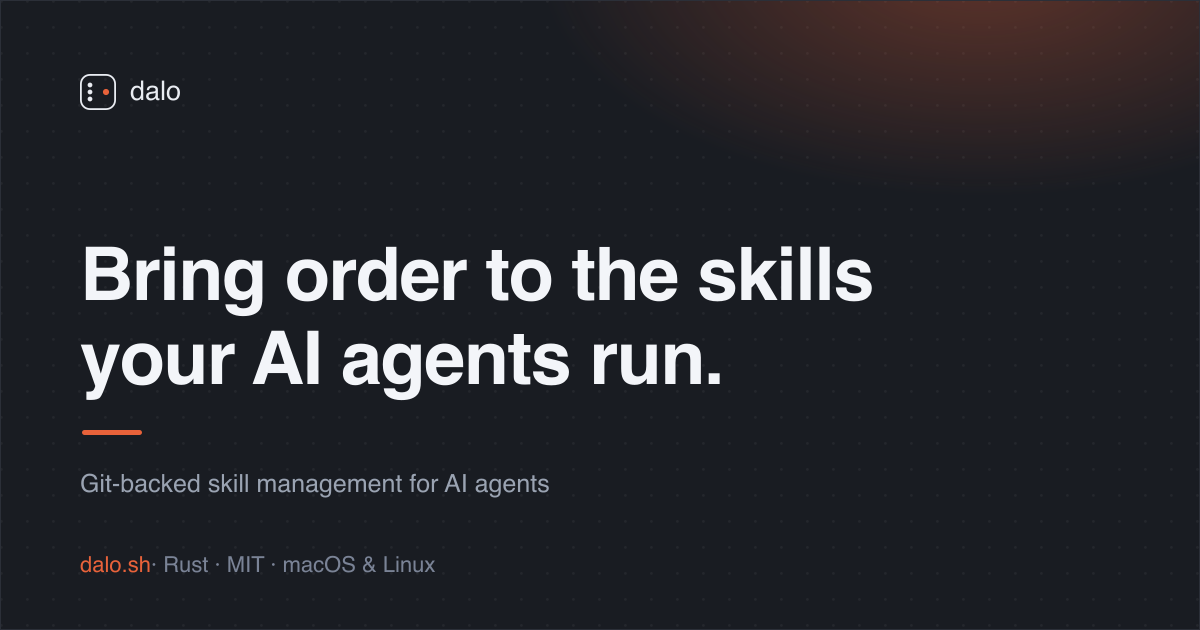
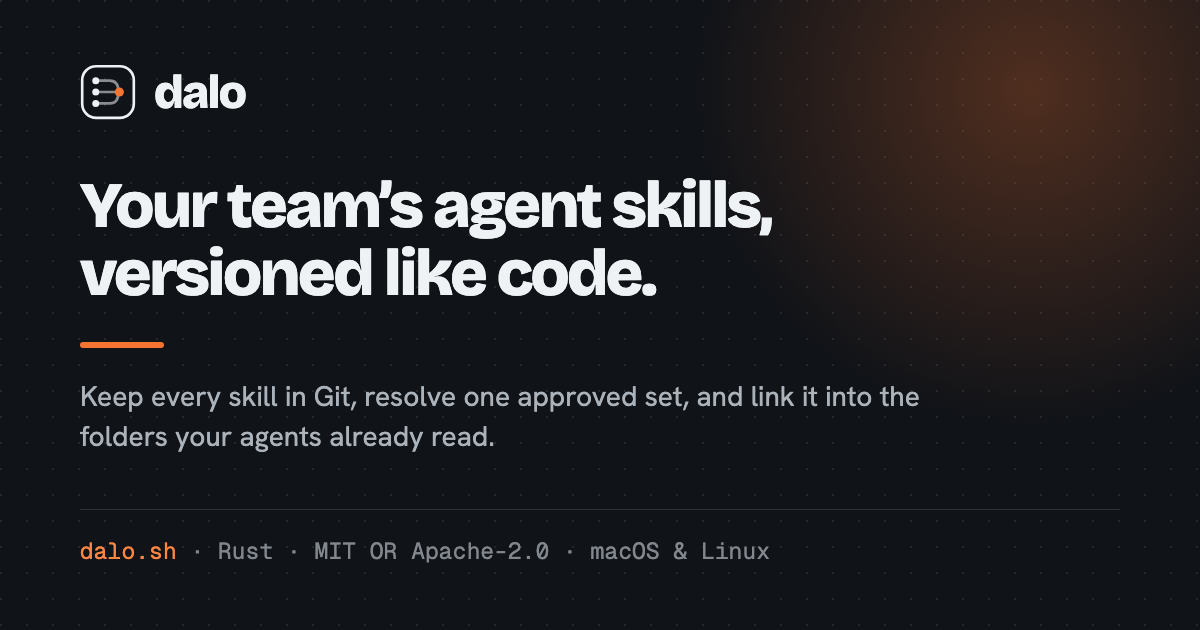
docs(site): render the 1.0 social card from a Remotion still
The Open Graph image still carried the pre-1.0 tagline and a system sans
that the site never uses. It is now generated from `video/src/OgImage.tsx`,
a 1200x630 Remotion still that reuses the landing page's self-hosted fonts
and the `data-scope="dark"` colour tokens, so the card and the hero it
links to say the same thing in the same typeface.

`pnpm run render:og` in `video/` regenerates it. The landing page, every
rendered documentation page, and the specification pages already share this
one file, so the refresh covers the whole site.

diff --git a/video/src/OgImage.tsx b/video/src/OgImage.tsx
@@ -1,0 +1,162 @@
+import {continueRender, delayRender} from 'remotion';
+import {useEffect, useState} from 'react';
+
+import bricolage800 from '../../site/assets/fonts/bricolage-800.woff2';
+import geistMono400 from '../../site/assets/fonts/geistmono-400.woff2';
+import hanken400 from '../../site/assets/fonts/hanken-400.woff2';
+
+// The tokens below are the `[data-scope="dark"]` values from site/styles.css.
+// The social card is the first thing a reader sees, so it uses the same fonts,
+// colours, and wording as the hero it links to.
+const colors = {
+  background: 'oklch(0.185 0.012 260)',
+  ink: 'oklch(0.96 0.004 240)',
+  inkSoft: 'oklch(0.76 0.012 250)',
+  inkFaint: 'oklch(0.62 0.012 255)',
+  accent: 'oklch(0.70 0.175 45)',
+  accentText: 'oklch(0.74 0.165 48)',
+  line: 'oklch(0.31 0.014 260)',
+};
+
+const fontFaces = `
+@font-face {
+  font-family: "Bricolage Grotesque";
+  font-style: normal;
+  font-weight: 800;
+  src: url("${bricolage800}") format("woff2");
+}
+@font-face {
+  font-family: "Hanken Grotesk";
+  font-style: normal;
+  font-weight: 400;
+  src: url("${hanken400}") format("woff2");
+}
+@font-face {
+  font-family: "Geist Mono";
+  font-style: normal;
+  font-weight: 400;
+  src: url("${geistMono400}") format("woff2");
+}
+`;
+
+const DaloMark = () => (
+  <svg viewBox="0 0 32 32" width="56" height="56" aria-hidden="true">
+    <rect x="1.25" y="1.25" width="29.5" height="29.5" rx="8" fill="none" stroke={colors.ink} strokeWidth="1.5" />
+    <circle cx="9" cy="9.5" r="2" fill={colors.ink} />
+    <circle cx="9" cy="16" r="2" fill={colors.ink} />
+    <circle cx="9" cy="22.5" r="2" fill={colors.ink} />
+    <path
+      d="M11 9.5 H17 Q22 9.5 22 16 Q22 22.5 17 22.5 H11 M11 16 H22"
+      fill="none"
+      stroke={colors.ink}
+      strokeWidth="1.5"
+      strokeLinecap="round"
+      strokeLinejoin="round"
+      opacity="0.55"
+    />
+    <circle cx="22.5" cy="16" r="2.6" fill={colors.accent} />
+  </svg>
+);
+
+export const OgImage = () => {
+  // The still must not be captured before the self-hosted faces are ready, or
+  // the headline falls back to the system sans and the card stops matching the
+  // page it advertises.
+  const [handle] = useState(() => delayRender('Loading the Dalo web fonts'));
+
+  useEffect(() => {
+    let cancelled = false;
+    document.fonts.ready.then(() => {
+      if (!cancelled) {
+        continueRender(handle);
+      }
+    });
+    return () => {
+      cancelled = true;
+    };
+  }, [handle]);
+
+  return (
+    <div
+      style={{
+        width: 1200,
+        height: 630,
+        position: 'relative',
+        overflow: 'hidden',
+        backgroundColor: colors.background,
+        color: colors.ink,
+        fontFamily: '"Hanken Grotesk", system-ui, sans-serif',
+        padding: '64px 80px',
+        boxSizing: 'border-box',
+        display: 'flex',
+        flexDirection: 'column',
+        justifyContent: 'space-between',
+      }}
+    >
+      <style>{fontFaces}</style>
+
+      {/* The hero's dotted grid and its warm corner glow. */}
+      <div
+        style={{
+          position: 'absolute',
+          inset: 0,
+          backgroundImage: 'radial-gradient(circle at 1px 1px, oklch(0.96 0.004 240 / 0.09) 1px, transparent 0)',
+          backgroundSize: '26px 26px',
+        }}
+      />
+      <div
+        style={{
+          position: 'absolute',
+          top: -260,
+          right: -180,
+          width: 700,
+          height: 700,
+          borderRadius: '50%',
+          background: 'radial-gradient(circle, oklch(0.70 0.175 45 / 0.28) 0%, transparent 68%)',
+        }}
+      />
+
+      <header style={{position: 'relative', display: 'flex', alignItems: 'center', gap: 18}}>
+        <DaloMark />
+        <span style={{fontFamily: '"Bricolage Grotesque", system-ui, sans-serif', fontWeight: 800, fontSize: 46, letterSpacing: '-0.04em'}}>
+          dalo
+        </span>
+      </header>
+
+      <div style={{position: 'relative'}}>
+        <h1
+          style={{
+            fontFamily: '"Bricolage Grotesque", system-ui, sans-serif',
+            fontWeight: 800,
+            fontSize: 64,
+            lineHeight: 1.06,
+            letterSpacing: '-0.042em',
+            margin: 0,
+            maxWidth: 940,
+          }}
+        >
+          Your team&rsquo;s agent skills, versioned like code.
+        </h1>
+
+        <div style={{width: 84, height: 6, borderRadius: 3, background: colors.accent, margin: '34px 0 28px'}} />
+
+        <p style={{fontSize: 28, lineHeight: 1.44, color: colors.inkSoft, margin: 0, maxWidth: 880}}>
+          Keep every skill in Git, resolve one approved set, and link it into the folders your agents already read.
+        </p>
+      </div>
+
+      <footer
+        style={{
+          position: 'relative',
+          paddingTop: 26,
+          borderTop: `1px solid ${colors.line}`,
+          fontFamily: '"Geist Mono", ui-monospace, Menlo, monospace',
+          fontSize: 23,
+          color: colors.inkFaint,
+        }}
+      >
+        <span style={{color: colors.accentText}}>dalo.sh</span> · Rust · MIT OR Apache-2.0 · macOS &amp; Linux
+      </footer>
+    </div>
+  );
+};

diff --git a/video/src/Root.tsx b/video/src/Root.tsx
@@ -1,13 +1,17 @@
-import {Composition} from 'remotion';
+import {Composition, Still} from 'remotion';
+import {OgImage} from './OgImage';
 import {QuickstartVideo} from './QuickstartVideo';
 
 export const VideoRoot = () => (
-  <Composition
-    id="DaloQuickstart"
-    component={QuickstartVideo}
-    durationInFrames={450}
-    fps={30}
-    width={1280}
-    height={720}
-  />
+  <>
+    <Composition
+      id="DaloQuickstart"
+      component={QuickstartVideo}
+      durationInFrames={450}
+      fps={30}
+      width={1280}
+      height={720}
+    />
+    <Still id="DaloOg" component={OgImage} width={1200} height={630} />
+  </>
 );

diff --git a/site/README.md b/site/README.md
@@ -33,6 +33,28 @@ node site/build.mjs --check   # fail if the checked-in output is stale
 
 The rendered documentation and the stamped version are committed, so the site
 stays deployable from a plain checkout and `--check` can prove they are current.
+
+## Binary assets
+
+Both binary assets are generated from checked-in Remotion sources in `video/`,
+so neither is ever edited by hand:
+
+```sh
+pnpm --dir video install
+pnpm --dir video run render      # site/assets/dalo-quickstart.mp4
+pnpm --dir video run render:og   # site/assets/img/og.png
+```
+
+`render:og` renders the `DaloOg` still (`video/src/OgImage.tsx`) at 1200x630
+using the self-hosted fonts in `site/assets/fonts` and the `data-scope="dark"`
+tokens from `styles.css`, so the social card carries the same tagline,
+typography, and colours as the hero. The landing page, every rendered
+`docs/*.html`, and the `spec/` pages all reference that one image, so a refresh
+covers the whole site. `tests/docs.sh` checks the PNG header against the
+declared `og:image:width` and `og:image:height`.
+
+Uploading the image as the repository's GitHub social preview is a separate,
+manual step in the repository settings.
 The current specification is published at `/spec/0.1/`; `/spec/` is its static
 landing page. The versioned schema is downloadable at
 `/spec/0.1/plugin-v1.schema.json`.
@@ -55,6 +77,7 @@ Before redeploying `dalo.sh`, verify the static site against the shipped repo st
 - `llms.txt` is in `site/build/`, every link in it resolves, and the landing page
   still advertises it through `<link rel="alternate" type="text/plain">`.
 - `pnpm run render` in `video/` has refreshed `site/assets/dalo-quickstart.mp4` after video source changes.
+- `pnpm run render:og` in `video/` has refreshed `site/assets/img/og.png` after tagline or brand changes.
 - Runtime assets are self-hosted; the homepage makes no CDN/player request.
 - `site/sitemap.xml` lists every published page.
 

diff --git a/video/README.md b/video/README.md
@@ -8,9 +8,13 @@ ships the resulting MP4 without a JavaScript video player.
 pnpm install
 pnpm run studio
 pnpm run render
+pnpm run render:og
 ```
 
-`pnpm run render` writes `site/assets/dalo-quickstart.mp4`.
+`pnpm run render` writes `site/assets/dalo-quickstart.mp4`. `pnpm run render:og`
+writes the 1200x630 social card `site/assets/img/og.png` from the `DaloOg`
+still, which reuses the landing page's self-hosted fonts and dark-scope colour
+tokens; the whole site shares that one image.
 
 The terminal transcript mirrors current human-readable CLI output. When any
 displayed command changes, update the transcript and render the MP4 in the same
